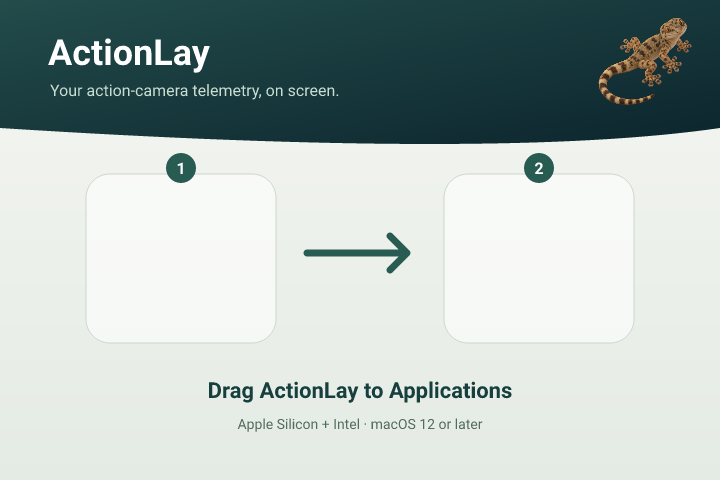
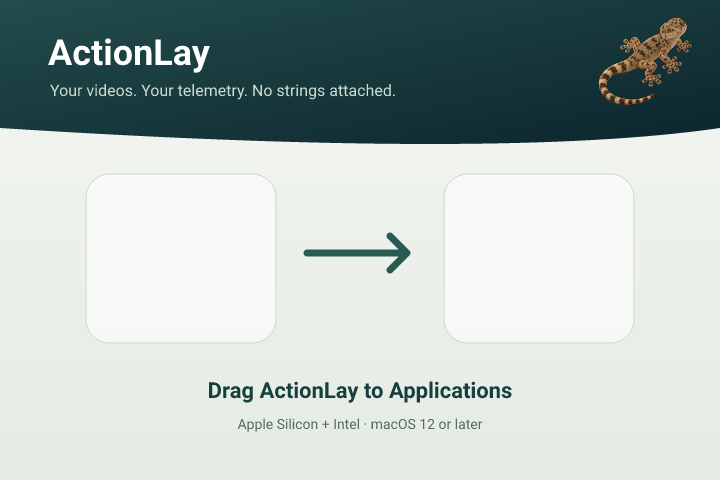
Keep DMG instructions visible and align artwork with the shared slogan

Changed region(s): [[0.1222, 0.1562, 0.55, 0.2188], [0.7028, 0.3125, 0.7944, 0.4062], [0.2139, 0.3125, 0.275, 0.4062]]

diff --git a/scripts/configure-dmg.py b/scripts/configure-dmg.py
@@ -23,7 +23,7 @@ with DSStore.open(str(volume / '.DS_Store'), 'w+') as store:
     store['.']['bwsp'] = {
         'ShowStatusBar': False, 'ShowTabView': False, 'ShowToolbar': False,
         'ShowPathbar': False, 'ShowSidebar': False, 'ContainerShowSidebar': False,
-        'WindowBounds': '{{180, 160}, {720, 480}}', 'SidebarWidth': 0,
+        'WindowBounds': '{{180, 160}, {720, 560}}', 'SidebarWidth': 0,
     }
     store['.']['icvp'] = {
         'viewOptionsVersion': 1, 'backgroundType': 2,

diff --git a/scripts/verify-dmg-layout.py b/scripts/verify-dmg-layout.py
@@ -7,6 +7,7 @@ from mac_alias import Alias
 
 volume = Path(sys.argv[1]).resolve()
 with DSStore.open(str(volume / '.DS_Store'), 'r') as store:
+    assert store['.']['bwsp']['WindowBounds'] == '{{180, 160}, {720, 560}}'
     options = store['.']['icvp']
     assert options['backgroundType'] == 2
     assert store['.']['icvl'] == (b'type', b'icnv')

diff --git a/assets/dmg/README.md b/assets/dmg/README.md
@@ -21,3 +21,7 @@ standard `/Volumes/ActionLay` mount hint. The packaging job verifies icon
 positions and resolves the background with macOS after compressing and mounting
 the final read-only DMG at a different path. This catches temporary build paths
 leaking into Finder metadata (including `/tmp` versus `/private/tmp`).
+
+The 720 × 560 Finder window reserves room for the title, path and status bars
+so the complete 720 × 480 artwork remains visible even when Finder shows them.
+The header uses the same slogan as the GitHub social preview.
